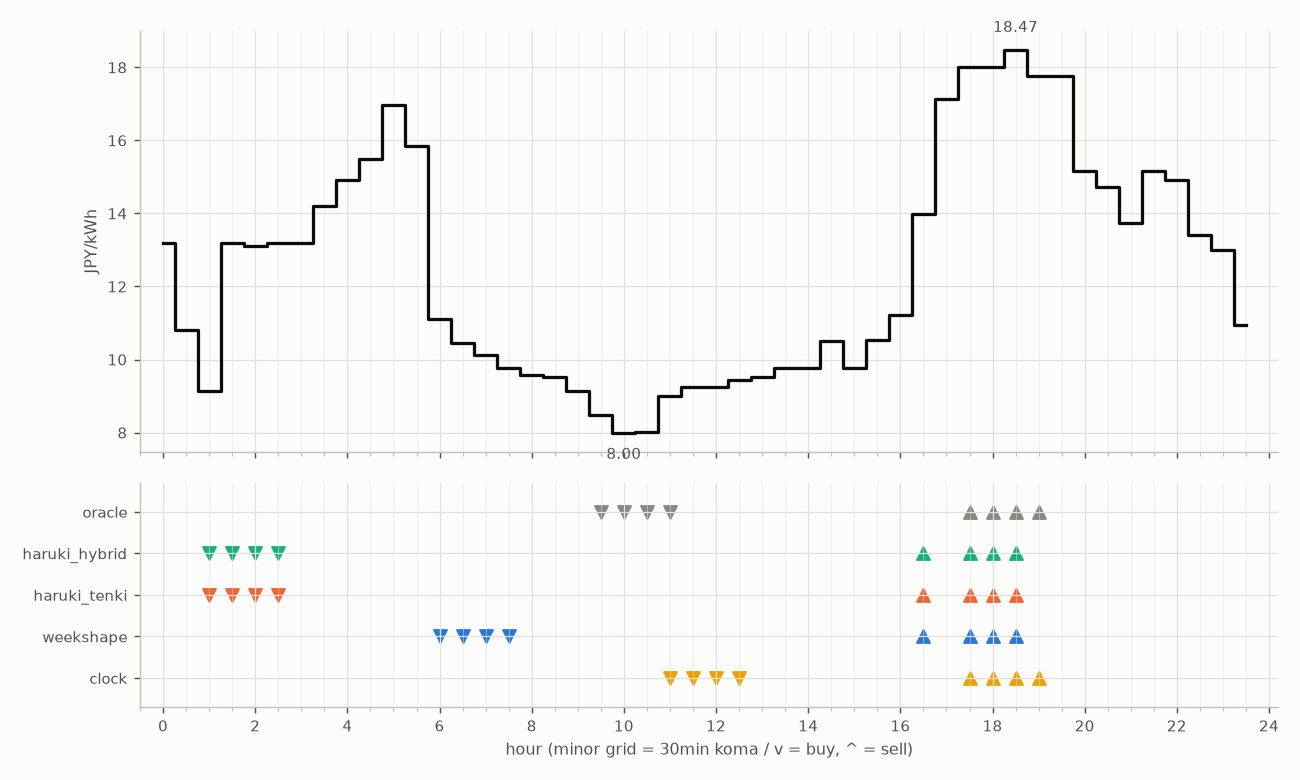
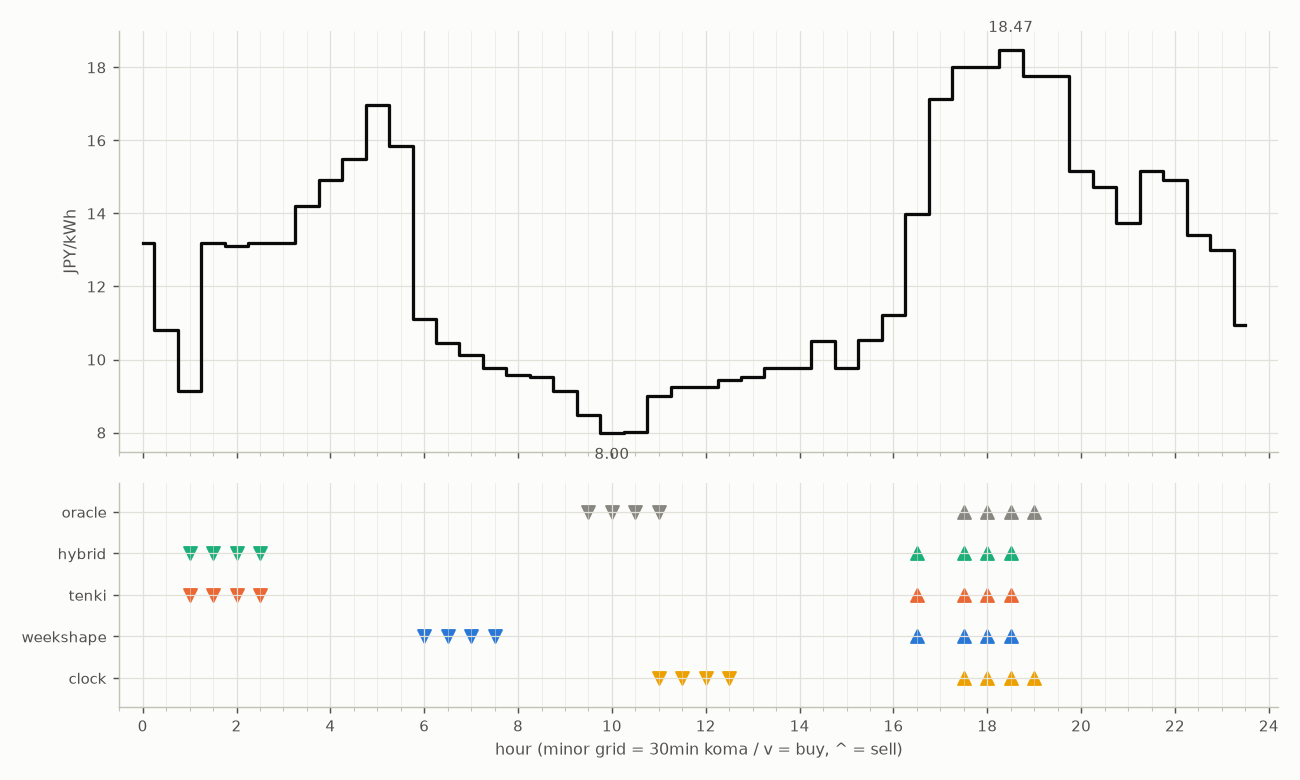
置換漏れ修正: 解剖チャートの色参照（hybrid）。全レポートをtenki/hybrid表記で再生成
Claude-Session: https://claude.ai/code/session_013FNxsReUc4Md1AbGJ9zMcF

diff --git a/docs/index.html b/docs/index.html
@@ -292,7 +292,7 @@ footer{color:var(--muted);font-size:.74rem;margin-top:26px;line-height:1.8}
 <div class="live">
   <span class="pulse" aria-hidden="true"></span>
   <span>フォワード <b>2</b> 日目</span>
-  <span>最終更新 <b>2026-08-14 22:22</b> JST</span>
+  <span>最終更新 <b>2026-08-14 22:23</b> JST</span>
   <span>全採点は自動</span>
 </div>
 

diff --git a/exp01_jepx/forward.py b/exp01_jepx/forward.py
@@ -74,7 +74,7 @@ def rad_dev(day: pd.Timestamp, rad_forecast: float | None = None):
 
 
 # ---------------- 台帳 ----------------
-# 予測提出型: ベースライン（clock/weekshape）はここで計算し、参加機体（haruki等）は
+# 予測提出型: ベースライン（clock/weekshape）はここで計算し、参加機体（tenki/hybrid等）は
 # picks/ に提出されたJSONだけで台帳入りする。提出が無い日は無得点（欠場）。
 
 PICKS_DIR = HERE / "picks"
@@ -192,7 +192,7 @@ def plot_ledger(ledger: pd.DataFrame, dest: Path) -> None:
     strong = ledger.index[ledger["signal"] == "強"]
     if len(strong) and "hybrid" in cum.columns:
         ax.plot(strong, cum.loc[strong, "hybrid"], "o",
-                color=COLORS["haruki_hybrid"], ms=5, mec=SURFACE, mew=1.2)
+                color=COLORS["hybrid"], ms=5, mec=SURFACE, mew=1.2)
     ax.set_title("Virtual battery forward test — cumulative P&L (JPY, 10kWh)",
                  color=INK, fontsize=11)
     ax.grid(color=GRID, lw=0.7)

diff --git a/exp01_jepx/reports/daily_anatomy.md b/exp01_jepx/reports/daily_anatomy.md
@@ -11,8 +11,8 @@
 |---|---|---|---|---|---|
 | clock | 11:00, 11:30, 12:00, 12:30 | 8.10円 | 17:30, 18:00, 18:30, 19:00 | 16.96円 | +72円 |
 | weekshape | 10:00, 10:30, 11:00, 12:00 | 8.67円 | 18:00, 18:30, 19:00, 19:30 | 17.03円 | +67円 |
-| haruki_tenki | 06:30, 10:00, 10:30, 11:00 | 9.26円 | 18:00, 18:30, 19:00, 19:30 | 17.03円 | +61円 |
-| haruki_hybrid | 06:30, 10:00, 10:30, 11:00 | 9.26円 | 18:00, 18:30, 19:00, 19:30 | 17.03円 | +61円 |
+| tenki | 06:30, 10:00, 10:30, 11:00 | 9.26円 | 18:00, 18:30, 19:00, 19:30 | 17.03円 | +61円 |
+| hybrid | 06:30, 10:00, 10:30, 11:00 | 9.26円 | 18:00, 18:30, 19:00, 19:30 | 17.03円 | +61円 |
 | oracle | 11:00, 11:30, 12:00, 13:00 | 8.06円 | 17:00, 18:00, 19:00, 19:30 | 17.42円 | +77円 |
 
 ![anatomy](anatomy/2026-08-15.png)
@@ -36,8 +36,8 @@
 |---|---|---|---|---|---|
 | clock | 11:00, 11:30, 12:00, 12:30 | 9.23円 | 17:30, 18:00, 18:30, 19:00 | 18.05円 | +71円 |
 | weekshape | 06:00, 06:30, 07:00, 07:30 | 10.36円 | 16:30, 17:30, 18:00, 18:30 | 17.12円 | +50円 |
-| haruki_tenki | 01:00, 01:30, 02:00, 02:30 | 12.15円 | 16:30, 17:30, 18:00, 18:30 | 17.12円 | +32円 |
-| haruki_hybrid | 01:00, 01:30, 02:00, 02:30 | 12.15円 | 16:30, 17:30, 18:00, 18:30 | 17.12円 | +32円 |
+| tenki | 01:00, 01:30, 02:00, 02:30 | 12.15円 | 16:30, 17:30, 18:00, 18:30 | 17.12円 | +32円 |
+| hybrid | 01:00, 01:30, 02:00, 02:30 | 12.15円 | 16:30, 17:30, 18:00, 18:30 | 17.12円 | +32円 |
 | oracle | 09:30, 10:00, 10:30, 11:00 | 8.37円 | 17:30, 18:00, 18:30, 19:00 | 18.05円 | +79円 |
 
 ![anatomy](anatomy/2026-08-14.png)

diff --git a/exp01_jepx/reports/forward_report.md b/exp01_jepx/reports/forward_report.md
@@ -1,6 +1,6 @@
 # JEPX仮想蓄電池 フォワード運用レポート
 
-戦略凍結: 2026-08-12 / フォワード開始: 2026-08-14受渡分 / 生成: 2026-08-14 21:39 JST
+戦略凍結: 2026-08-12 / フォワード開始: 2026-08-14受渡分 / 生成: 2026-08-14 22:23 JST
 
 ![cumulative P&L](forward_pnl.png)
 
@@ -10,8 +10,8 @@
 |---|---|---|---|
 | clock | 143円 | 71.4 | 91.4% |
 | weekshape | 117円 | 58.6 | 75.0% |
-| haruki_tenki | 93円 | 46.7 | 59.8% |
-| haruki_hybrid | 93円 | 46.7 | 59.8% |
+| tenki | 93円 | 46.7 | 59.8% |
+| hybrid | 93円 | 46.7 | 59.8% |
 | oracle | 156円 | 78.1 | 100.0% |
 ## 直近日の解剖（全日分は [daily_anatomy.md](daily_anatomy.md)）
 
@@ -24,8 +24,8 @@
 |---|---|---|---|---|---|
 | clock | 11:00, 11:30, 12:00, 12:30 | 8.10円 | 17:30, 18:00, 18:30, 19:00 | 16.96円 | +72円 |
 | weekshape | 10:00, 10:30, 11:00, 12:00 | 8.67円 | 18:00, 18:30, 19:00, 19:30 | 17.03円 | +67円 |
-| haruki_tenki | 06:30, 10:00, 10:30, 11:00 | 9.26円 | 18:00, 18:30, 19:00, 19:30 | 17.03円 | +61円 |
-| haruki_hybrid | 06:30, 10:00, 10:30, 11:00 | 9.26円 | 18:00, 18:30, 19:00, 19:30 | 17.03円 | +61円 |
+| tenki | 06:30, 10:00, 10:30, 11:00 | 9.26円 | 18:00, 18:30, 19:00, 19:30 | 17.03円 | +61円 |
+| hybrid | 06:30, 10:00, 10:30, 11:00 | 9.26円 | 18:00, 18:30, 19:00, 19:30 | 17.03円 | +61円 |
 | oracle | 11:00, 11:30, 12:00, 13:00 | 8.06円 | 17:00, 18:00, 19:00, 19:30 | 17.42円 | +77円 |
 
 ![anatomy](anatomy/2026-08-15.png)
